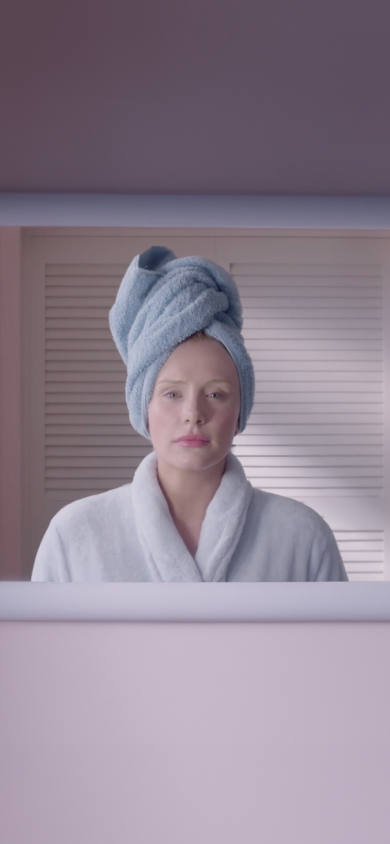
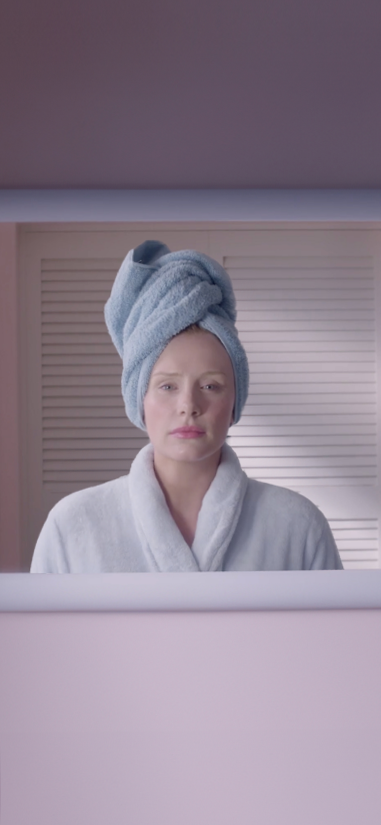
anderüng mobile

diff --git a/script-mobile.js b/script-mobile.js
@@ -122,10 +122,10 @@ function openWebcam(left, top) {
   var circleContainer = document.createElement("div");
   circleContainer.classList.add("circle-container");
   circleContainer.style.position = "absolute";
-  circleContainer.style.width = "20vh"; // anpassen nach Bedarf
-  circleContainer.style.height = "20vh"; // anpassen nach Bedarf
-  circleContainer.style.left = left + "px"; // Position des .circle-Containers berücksichtigen
-  circleContainer.style.top = top + "px"; // Position des .circle-Containers berücksichtigen
+  circleContainer.style.width = "18vh"; // anpassen nach Bedarf
+  circleContainer.style.height = "18vh"; // anpassen nach Bedarf
+  circleContainer.style.left = left - 8 + "px"; // 20 Pixel nach links verschieben
+  circleContainer.style.top = top + 10 + "px"; // 10 Pixel nach unten verschieben
   circleContainer.style.borderRadius = "50%"; // Container als Kreis formen
   circleContainer.style.overflow = "hidden"; // Verhindern, dass Webcam-Bild außerhalb des Kreises sichtbar ist
   circleContainer.style.transform = "scale(0.9)"; // Startskalierung auf 0.5 setzen
@@ -141,18 +141,19 @@ function openWebcam(left, top) {
       webcamElement.srcObject = stream;
       // Video-Element dem Kreiscontainer hinzufügen
       circleContainer.appendChild(webcamElement);
-
-      // Nachdem die Webcam geladen wurde, Skalierung auf 1 setzen (Startanimation)
-      circleContainer.style.transition = "transform 0.5s ease-in-out";
-      circleContainer.style.transform = "scale(1)";
     })
     .catch(function (error) {
       console.log("Error accessing webcam: ", error);
-      // Hier kannst du Fehlerbehandlung hinzufügen, z.B. eine Benachrichtigung an den Benutzer ausgeben
     });
 
   // Kreiscontainer zur Seite hinzufügen
   document.body.appendChild(circleContainer);
+
+  // Nachdem die Webcam geladen wurde, Skalierung auf 1 setzen (Startanimation)
+  circleContainer.style.transition = "transform 0.5s ease-in-out";
+  setTimeout(function () {
+    circleContainer.style.transform = "scale(1.5)";
+  }, 100); // Startanimation verzögern, um sicherzustellen, dass der Kreiscontainer vollständig gerendert ist
 }
 
 function resetElements() {

diff --git a/style-mobile.css b/style-mobile.css
@@ -11,7 +11,7 @@ body {
   font-size: 12vw;
   grid-template-columns: 1fr 1fr 1fr 1fr 1fr 1fr 1fr 1fr 1fr 1fr 1fr 1fr 1fr 1fr 1fr;
   grid-template-rows: 1fr 1fr 1fr 1fr 1fr 1fr 1fr 1fr 1fr 1fr 1fr 1fr 1fr 1fr 1fr 1fr 1fr 1fr 1fr;
-  background: url(links/frau_mobile.png) lightgray 50% / cover no-repeat;
+  background: url(links/angesetzt_mobile\ 3.png) lightgray 50% / cover no-repeat;
   position: relative;
 }
 
@@ -40,7 +40,7 @@ body {
   grid-column-start: 4;
   grid-column-end: 13;
   background: url(links//1_star_mobiel.png) no-repeat;
-  background-size: 110%;
+  background-size: 100%;
   background-position: center;
 }
 
